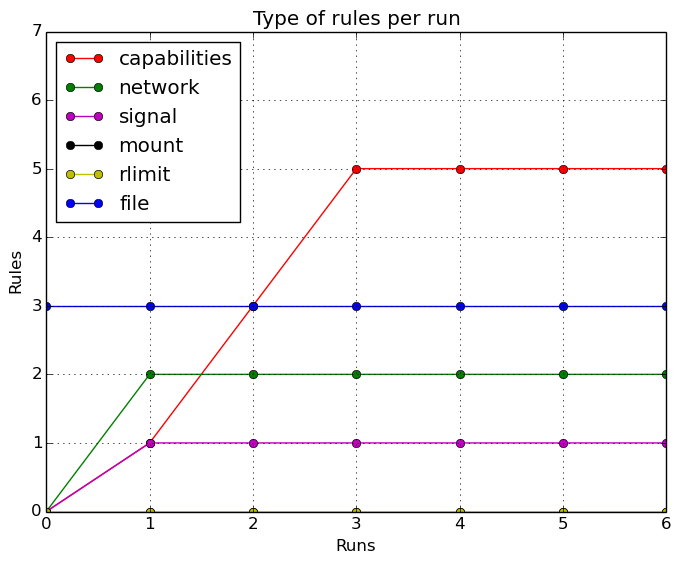
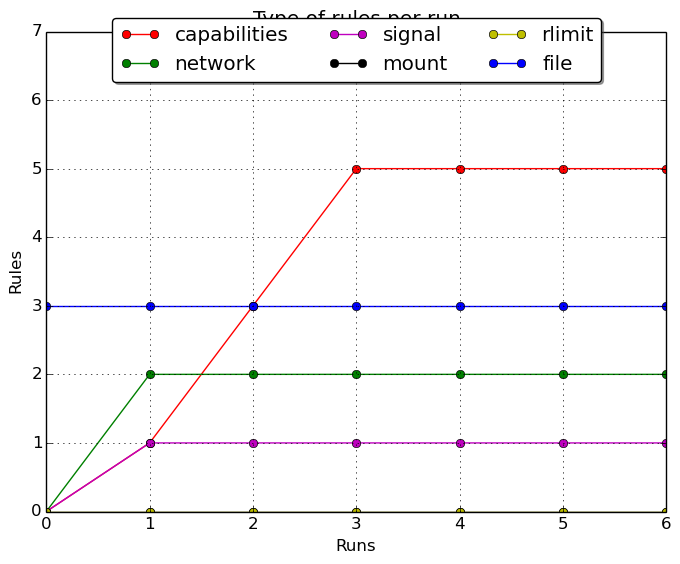
Trying to set legend to the right position

Changed region(s): [[0.0618, 0.0301, 0.8956, 0.422]]

diff --git a/Benchmarks/media-streaming/Parser/metrics/plot_type_rules.py b/Benchmarks/media-streaming/Parser/metrics/plot_type_rules.py
@@ -98,7 +98,9 @@ ax.plot(x_Axis, mount, label="mount", color="k", marker='o')
 ax.plot(x_Axis, rlimit, label="rlimit", color="y", marker='o')
 ax.plot(x_Axis, file_rules, label="file", color="b", marker='o')
 
-ax.legend(loc=0)
+#ax.legend(loc=0)
+ax.legend(loc='upper center', bbox_to_anchor=(0.5, 1.05),
+                  ncol=3, fancybox=True, shadow=True)
 ax.grid()
 ax.set_xlabel("Runs")
 ax.set_ylabel(r"Rules")

diff --git a/Parser/metrics/plot_type_rules.py b/Parser/metrics/plot_type_rules.py
@@ -98,7 +98,9 @@ ax.plot(x_Axis, mount, label="mount", color="k", marker='o')
 ax.plot(x_Axis, rlimit, label="rlimit", color="y", marker='o')
 ax.plot(x_Axis, file_rules, label="file", color="b", marker='o')
 
-ax.legend(loc=0)
+#ax.legend(loc=0)
+ax.legend(loc='upper center', bbox_to_anchor=(0.5, 1.05),
+                  ncol=3, fancybox=True, shadow=True)
 ax.grid()
 ax.set_xlabel("Runs")
 ax.set_ylabel(r"Rules")
